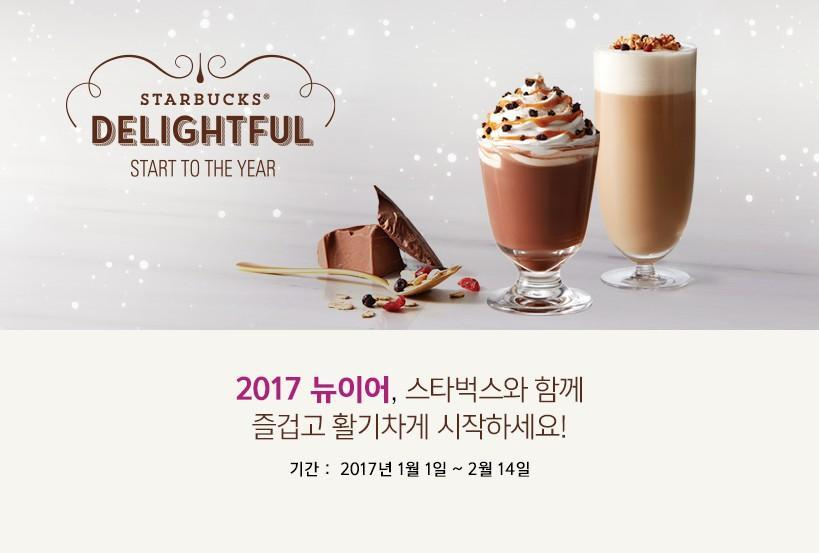
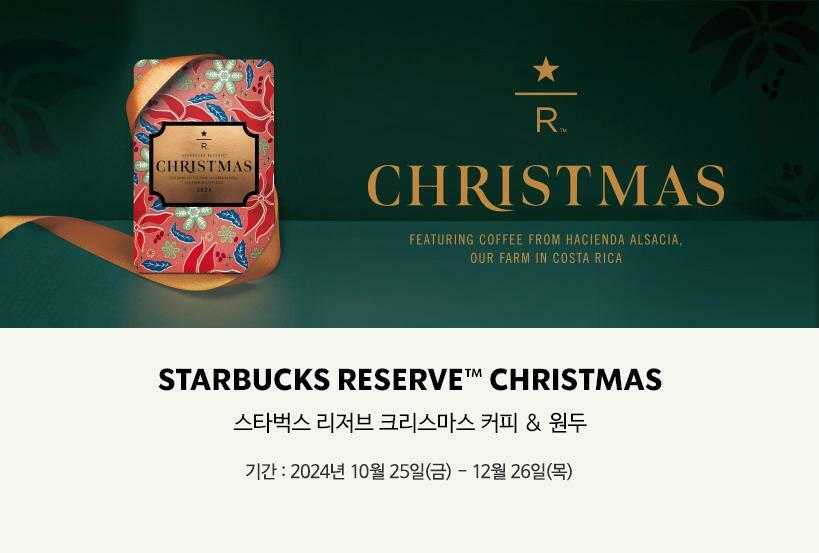
Feat: Slide - Image Slide

diff --git a/css/main.css b/css/main.css
@@ -380,9 +380,71 @@ header .badges .badge{
 .notice .promotion .swiper-container{
   width: calc(819px * 3 + 20px);
   height: 553px;
-  background-color: orange;
   position: absolute;
   top: 40px;
   left: 50%;
   margin-left: calc((819px * 3 + 20px)/-2);
 }
+.notice .promotion .swiper-slide{
+  opacity: .5;
+  transition: opacity 1s;
+  position: relative;
+}
+.notice .promotion .swiper-slide-active{
+  opacity: 1;
+}
+.notice .promotion .swiper-slide .btn {
+  position: absolute;
+  bottom: 0;
+  left: 0;
+  right: 0;
+  margin: auto;
+}
+.notice .promotion .swiper-pagination {
+  bottom: 40px;
+  left: 0;
+  right: 0;
+}
+.notice .promotion .swiper-pagination .swiper-pagination-bullet{
+  background-color: transparent;
+  background-image: url("../images/promotion_slide_pager.png");
+  width: 12px;
+  height: 12px;
+  margin-right: 6px;
+  outline: none;
+}
+.notice .promotion .swiper-pagination .swiper-pagination-bullet:last-child{
+  margin-right: 0;
+}
+.notice .promotion .swiper-pagination .swiper-pagination-bullet-active{
+  background-image: url("../images/promotion_slide_pager_on.png");
+}
+.notice .promotion .swiper-prev,
+.notice .promotion .swiper-next {
+  width: 42px;
+  height: 42px;
+  border: 2px solid #333;
+  border-radius: 50%;
+  position: absolute;
+  top: 300px;
+  z-index: 1;
+  cursor: pointer;
+  outline: none;
+  display: flex;
+  justify-content: center;
+  align-items: center;
+  transition: .4s;
+}
+.notice .promotion .swiper-prev{
+  left: 50%;
+  margin-left: -480px;
+}
+.notice .promotion .swiper-next{
+  right: 50%;
+  margin-right: -480px;
+}
+.notice .promotion .swiper-prev:hover,
+.notice .promotion .swiper-next:hover{
+  background-color: #fff;
+  color: #333;
+} 

diff --git a/index.html b/index.html
@@ -457,8 +457,23 @@
     </div>
     <div class="promotion">
       <div class="swiper-container">
-        <!-- <div class="swiper-wrapper"></div> -->
-         TEST
+        <div class="swiper-wrapper">
+          <div class="swiper-slide">
+            <img src="./images/promotion_slide1.jpg" alt="스타벅스 리저브 크리스마스 커피 & 원두">
+            <a href="/#" class="btn">자세히 보기</a>
+          </div>
+          <div class="swiper-slide">
+            <img src="./images/promotion_slide2.jpg" alt="함께라서 더욱 즐거운 홀리데이 모먼트">
+            <a href="/#" class="btn">자세히 보기</a>
+          </div>
+        </div>
+      </div>
+      <div class="swiper-pagination"></div>
+      <div class="swiper-prev">
+        <div class="material-icons">arrow_back_ios_new</div>
+      </div>
+      <div class="swiper-next">
+        <div class="material-icons">arrow_forward_ios</div>
       </div>
     </div>
   </section>

diff --git a/js/main.js b/js/main.js
@@ -46,3 +46,21 @@ new Swiper('.notice-line .swiper-container' , {
   autoplay: true,
   loop: true
 })
+
+new Swiper('.promotion .swiper-container',{
+  slidesPerView: 3,
+  spaceBetween: 10,
+  centeredSlides: true,
+  loop: true,
+  autoplay: {
+    delay: 5000
+  },
+  pagination :{
+    el: '.promotion .swiper-pagination',
+    clickable: true
+  },
+  navigation :{
+    prevEl: '.promotion .swiper-prev',
+    nextEl: '.promotion .swiper-next'
+  }
+})
